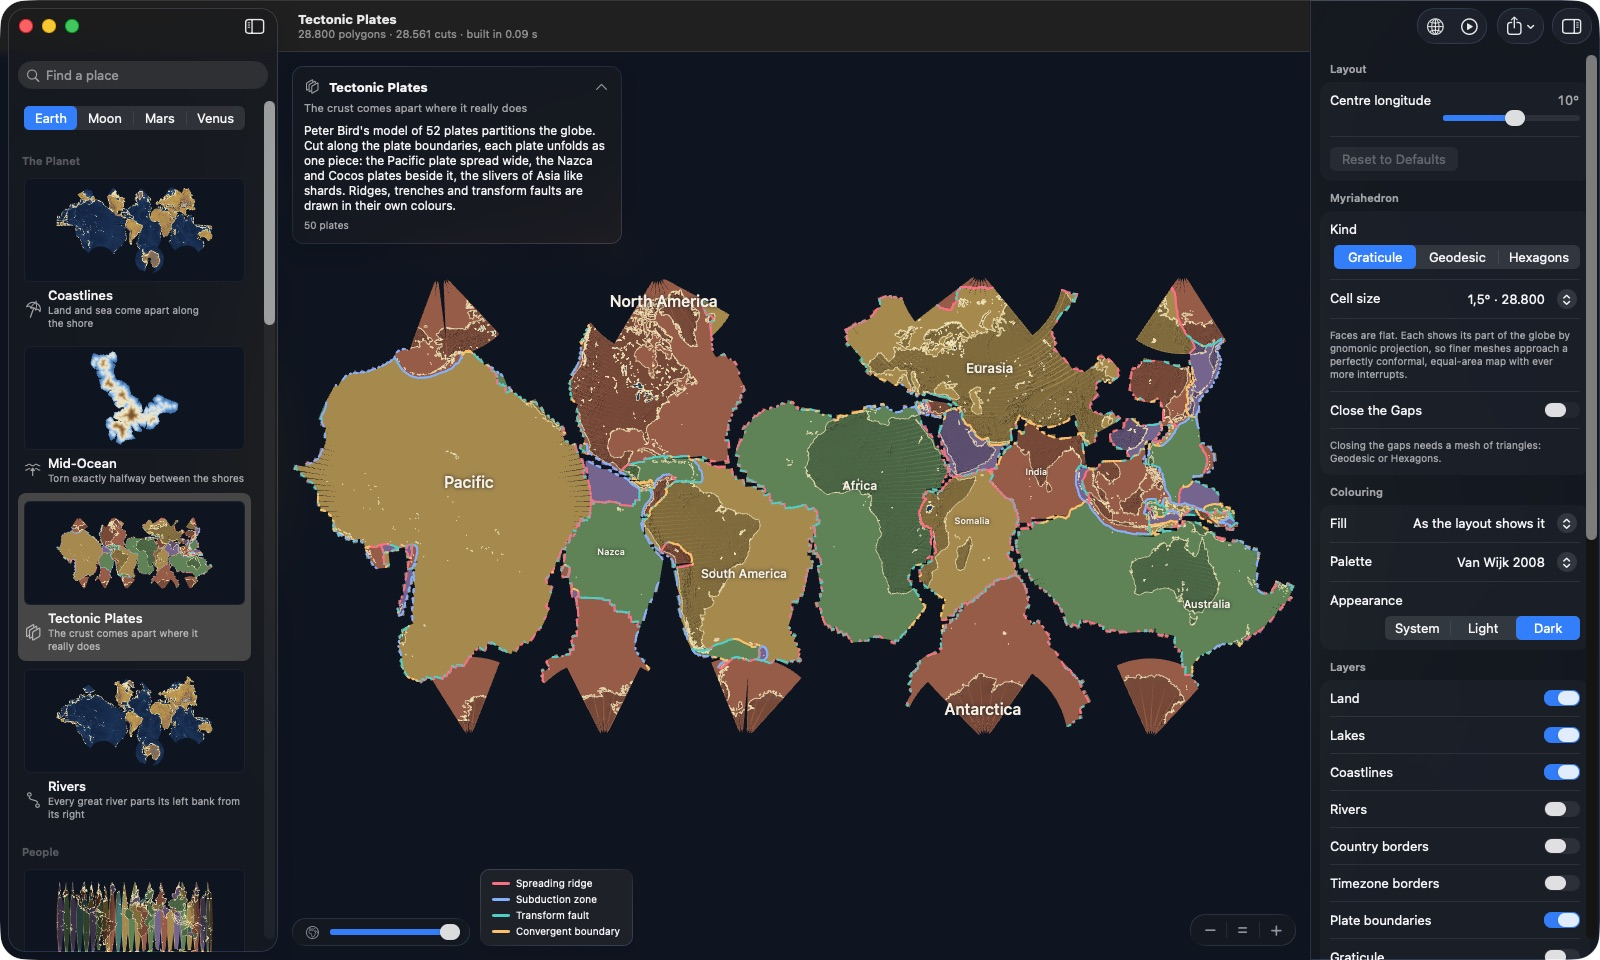
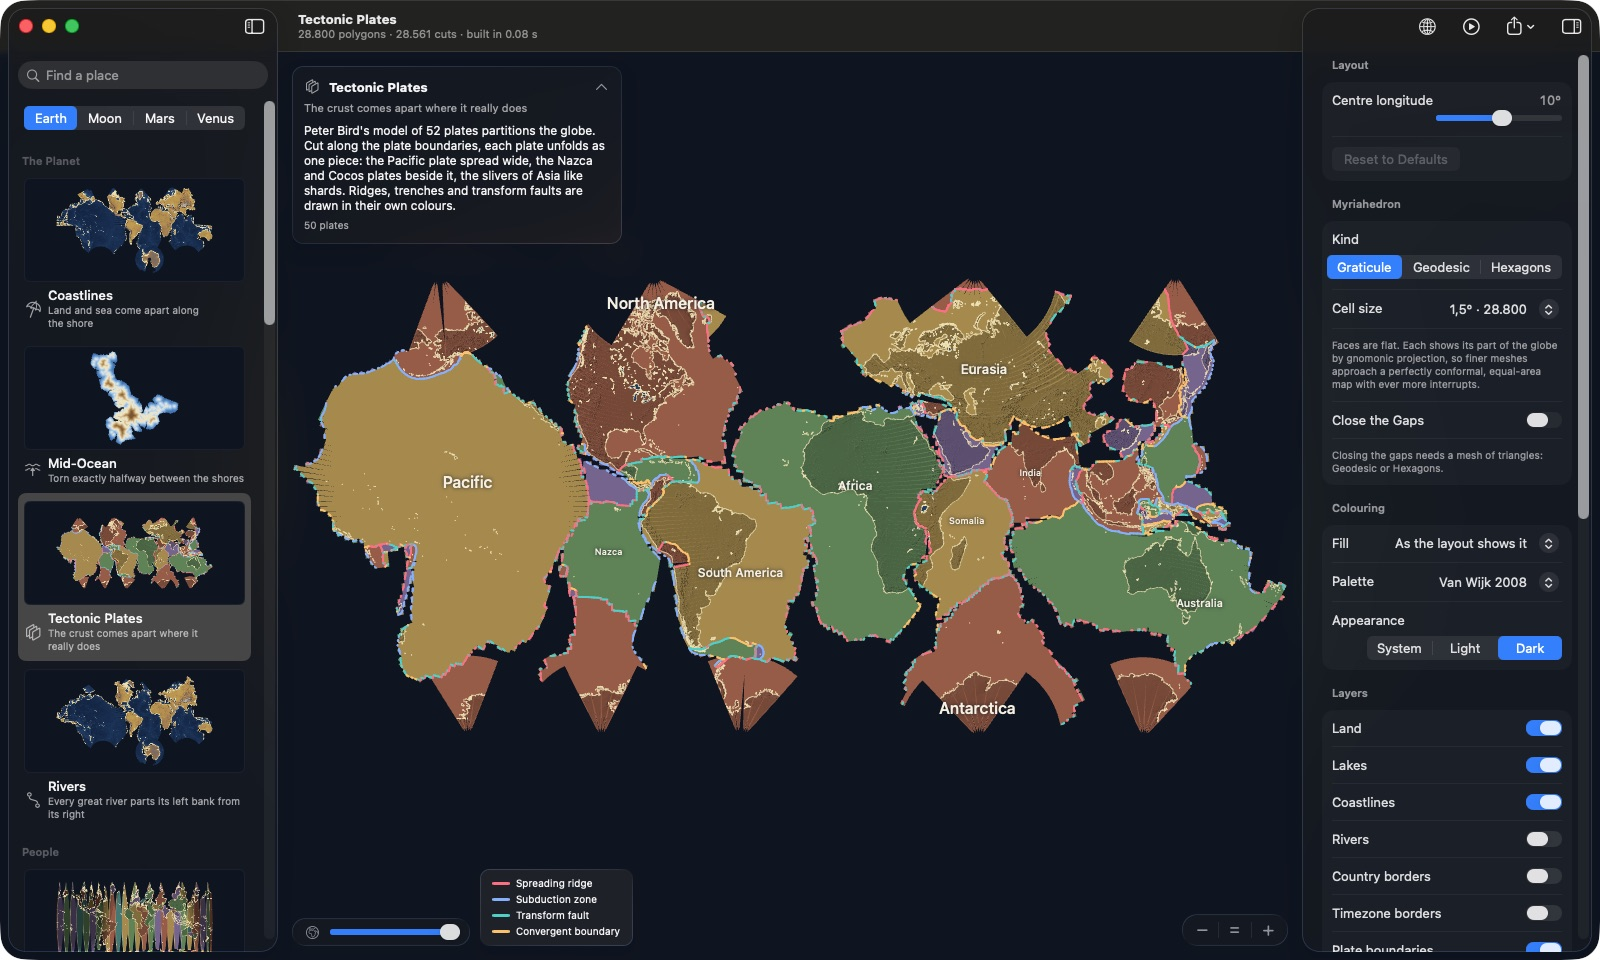
The inspector floats as the sidebar does
On macOS 26 the sidebar is a pane of glass floating over the window while
the system's inspector is edge-to-edge glass that takes the toolbar's bar
with it: toggling it, the top bar came and went on the right.

- The inspector is a pane of glass of its own now, 8 pt off the window's
  edges with corners concentric to the window's, over the map, which keeps
  to the room beside it. Its leading edge resizes it (260–380 pt); width
  and visibility are remembered.
- The bar behind the toolbar runs across the whole window, under both
  panes, in the window's background material: macOS 26 only drew it
  beside a system inspector.
- Over the pane the toolbar's buttons stand bare, as the sidebar's does.
- Section titles small again, sections as close as in the system's
  inspector.
- Before macOS 26 it stays the system's inspector column.

Claude-Session: https://claude.ai/code/session_01TRjAbZ468Ntt9bSTedeExo

diff --git a/Sources/JJApp/Panels.swift b/Sources/JJApp/Panels.swift
@@ -95,16 +95,16 @@ struct InspectorView: View {
         Form {
             let d = model.descriptor
             if !d.parameters.isEmpty {
-                Section("Layout") {
+                Section {
                     ForEach(d.parameters) { p in ParameterControl(parameter: p, value: model.parameterBinding(p.id)) }
                     Button("Reset to Defaults") {
                         model.parameterValues[model.choiceKey] = nil
                         model.rebuild()
                     }
                     .disabled(model.parameterValues[model.choiceKey]?.isEmpty ?? true)
-                }
+                } header: { InspectorHeader("Layout") }
             }
-            Section("Myriahedron") {
+            Section {
                 MeshPicker(model: model)
                 Toggle(isOn: Binding(get: { model.gapsClosed }, set: { model.setGapsClosed($0) })) {
                     HStack(spacing: 6) {
@@ -119,8 +119,8 @@ struct InspectorView: View {
                      : "Closing the gaps needs a mesh of triangles: Geodesic or Hexagons.")
                     .font(.caption)
                     .foregroundStyle(.secondary)
-            }
-            Section("Colouring") {
+            } header: { InspectorHeader("Myriahedron") }
+            Section {
                 ColoringPicker(model: model)
                 Picker("Palette", selection: $model.paletteID) {
                     ForEach(Palette.all) { Text($0.name).tag($0.id) }
@@ -129,17 +129,17 @@ struct InspectorView: View {
                     ForEach(AppearanceMode.allCases) { Text($0.title).tag($0) }
                 }
                 .pickerStyle(.segmented)
-            }
-            Section("Layers") {
+            } header: { InspectorHeader("Colouring") }
+            Section {
                 ForEach(LayerID.allCases.filter(model.isAvailable)) { layer in
                     Toggle(layer.title, isOn: model.layerBinding(layer))
                 }
                 if model.layerOverrides.isEmpty == false {
                     Button("Use the Layout's Layers") { model.layerOverrides = [:] }
                 }
-            }
+            } header: { InspectorHeader("Layers") }
             if let state = model.state {
-                Section("This Map") {
+                Section {
                     LabeledContent("Polygons", value: state.mesh.cellCount.formatted())
                     LabeledContent("Faces", value: state.mesh.faceCount.formatted())
                     LabeledContent("Hinges", value: (state.mesh.faceCount - 1).formatted())
@@ -149,7 +149,7 @@ struct InspectorView: View {
                     ForEach(state.timings, id: \.0) { name, t in
                         LabeledContent(name.capitalized, value: String(format: "%.0f ms", t * 1000))
                     }
-                }
+                } header: { InspectorHeader("This Map") }
             }
             Section {
                 Text("The cuts of a myriahedral map form a spanning tree of the mesh: V − 1 edges, and every face hangs from the root by exactly one path of hinges.")
@@ -160,6 +160,23 @@ struct InspectorView: View {
         .formStyle(.grouped)
         .onChange(of: model.coloringOverride) { model.refreshLabels() }
         .onChange(of: model.layerOverrides) { model.refreshLabels() }
+    }
+}
+
+/// A section title, small, as the system's inspector sets it. Outside a
+/// system inspector, as in the floating one of macOS 26, a form sets its
+/// titles large and its sections apart as Settings does.
+struct InspectorHeader: View {
+    let title: String
+    init(_ title: String) { self.title = title }
+
+    var body: some View {
+        let text = Text(title).font(.subheadline.weight(.semibold)).foregroundStyle(.secondary)
+        if #available(macOS 26, *) {
+            text.padding(.top, -14)
+        } else {
+            text
+        }
     }
 }
 

diff --git a/Sources/JJApp/ContentView.swift b/Sources/JJApp/ContentView.swift
@@ -10,7 +10,7 @@ struct ContentView: View {
     @Environment(\.colorScheme) private var colorScheme
     @Environment(\.openSettings) private var openSettings
     @Environment(\.openWindow) private var openWindow
-    @State private var showInspector = true
+    @SceneStorage("inspector") private var showInspector = true
     @State private var columns = NavigationSplitViewVisibility.automatic
     @FocusState private var isSearchFocused: Bool
 
@@ -22,9 +22,8 @@ struct ContentView: View {
             MapArea(model: model)
                 .navigationTitle(model.descriptor.title)
                 .navigationSubtitle(model.status)
-                .inspector(isPresented: $showInspector) {
+                .floatingInspector(isPresented: $showInspector) {
                     InspectorView(model: model)
-                        .inspectorColumnWidth(min: 260, ideal: 290, max: 380)
                 }
                 .toolbar { toolbar }
         }
@@ -77,6 +76,15 @@ struct ContentView: View {
 
     @ToolbarContentBuilder
     private var toolbar: some ToolbarContent {
+        if #available(macOS 26, *) {
+            // On the floating inspector the buttons stand bare, as the sidebar's does.
+            buttons.sharedBackgroundVisibility(showInspector ? .hidden : .automatic)
+        } else {
+            buttons
+        }
+    }
+
+    private var buttons: some ToolbarContent {
         ToolbarItemGroup {
             Button {
                 model.toggleFold()
@@ -93,7 +101,7 @@ struct ContentView: View {
             .help(model.isTouring ? "Stop touring the layouts" : "Tour every layout, folding and unfolding between them")
             ExportMenu(model: model)
             Button {
-                showInspector.toggle()
+                withAnimation(.smooth(duration: 0.3)) { showInspector.toggle() }
             } label: {
                 Label("Inspector", systemImage: "sidebar.trailing")
             }
@@ -162,6 +170,20 @@ struct MapArea: View {
         }
         .coordinateSpace(.named(MapArea.space))
         .background(Color(rgba: model.style.background))
+        .overlay {
+            if #available(macOS 26, *) {
+                // The bar behind the toolbar, across the whole window: macOS 26
+                // only draws it beside a system inspector.
+                VStack(spacing: 0) {
+                    WindowBackground()
+                        .overlay(alignment: .bottom) { Divider() }
+                        .frame(height: model.viewInsets.top)
+                    Spacer(minLength: 0)
+                }
+                .ignoresSafeArea()
+                .allowsHitTesting(false)
+            }
+        }
         .onGeometryChange(for: Double.self) { $0.safeAreaInsets.top } action: { top in
             // The map runs under the translucent toolbar but is fitted below it.
             model.viewInsets = (top: top, bottom: 52)
@@ -171,6 +193,20 @@ struct MapArea: View {
 
 extension MapArea {
     nonisolated static let space = "mapArea"
+}
+
+/// The window's background material, tinted by the wallpaper as the
+/// system's own bars are.
+private struct WindowBackground: NSViewRepresentable {
+    func makeNSView(context: Context) -> NSVisualEffectView {
+        let view = NSVisualEffectView()
+        view.material = .windowBackground
+        view.blendingMode = .withinWindow
+        view.state = .followsWindowActiveState
+        return view
+    }
+
+    func updateNSView(_ view: NSVisualEffectView, context: Context) {}
 }
 
 private extension View {

diff --git a/Sources/JJApp/FloatingInspector.swift b/Sources/JJApp/FloatingInspector.swift
@@ -1,0 +1,82 @@
+import SwiftUI
+
+extension View {
+    /// The inspector. Since macOS 26 the sidebar floats over the window as a
+    /// pane of glass while the system's inspector sits edge to edge, taking
+    /// the toolbar with it; here it floats as the sidebar does, on the other
+    /// side. Before macOS 26 it is the system's inspector column.
+    func floatingInspector<Panel: View>(isPresented: Binding<Bool>, @ViewBuilder content: () -> Panel) -> some View {
+        modifier(FloatingInspector(isPresented: isPresented, panel: content()))
+    }
+}
+
+struct FloatingInspector<Panel: View>: ViewModifier {
+    @Binding var isPresented: Bool
+    let panel: Panel
+    @AppStorage("inspectorWidth") private var width = 290.0
+    /// The width when a resize began.
+    @State private var resizeStart: Double?
+
+    static var widths: ClosedRange<Double> { 260...380 }
+    /// How far the pane keeps from the window's edges, as the sidebar does.
+    static var margin: CGFloat { 8 }
+
+    func body(content: Content) -> some View {
+        if #available(macOS 26, *) {
+            // The map keeps to the room left of the pane; its backdrop runs on
+            // beneath it, as it does beneath the sidebar.
+            content.safeAreaInset(edge: .trailing, spacing: 0) {
+                if isPresented {
+                    pane.transition(.move(edge: .trailing).combined(with: .opacity))
+                }
+            }
+        } else {
+            content.inspector(isPresented: $isPresented) {
+                panel.inspectorColumnWidth(min: Self.widths.lowerBound, ideal: 290, max: Self.widths.upperBound)
+            }
+        }
+    }
+
+    @available(macOS 26, *)
+    private var pane: some View {
+        // Up under the toolbar, as high as the sidebar goes; what scrolls
+        // past either end stays within the glass.
+        let shape = ConcentricRectangle(corners: .concentric(minimum: .fixed(12)), isUniform: true)
+        return panel
+            .scrollContentBackground(.hidden)
+            .frame(width: width.clamped(to: Self.widths))
+            .mask {
+                shape.padding(.top, Self.margin).ignoresSafeArea(.container, edges: .top)
+            }
+            .background {
+                Color.clear
+                    .glassEffect(.regular, in: shape)
+                    .padding(.top, Self.margin)
+                    .ignoresSafeArea(.container, edges: .top)
+            }
+            .overlay(alignment: .leading) { resizeHandle }
+            .padding([.trailing, .bottom], Self.margin)
+    }
+
+    /// The pane's leading edge, dragged to make it wider or narrower.
+    private var resizeHandle: some View {
+        Color.clear
+            .frame(width: 8)
+            .contentShape(Rectangle())
+            .offset(x: -4)
+            .pointerStyle(.frameResize(position: .leading))
+            .gesture(
+                DragGesture(minimumDistance: 1, coordinateSpace: .global)
+                    .onChanged { drag in
+                        let start = resizeStart ?? width.clamped(to: Self.widths)
+                        resizeStart = start
+                        width = (start - drag.translation.width).clamped(to: Self.widths)
+                    }
+                    .onEnded { _ in resizeStart = nil }
+            )
+    }
+}
+
+private extension Comparable {
+    func clamped(to range: ClosedRange<Self>) -> Self { min(max(self, range.lowerBound), range.upperBound) }
+}
